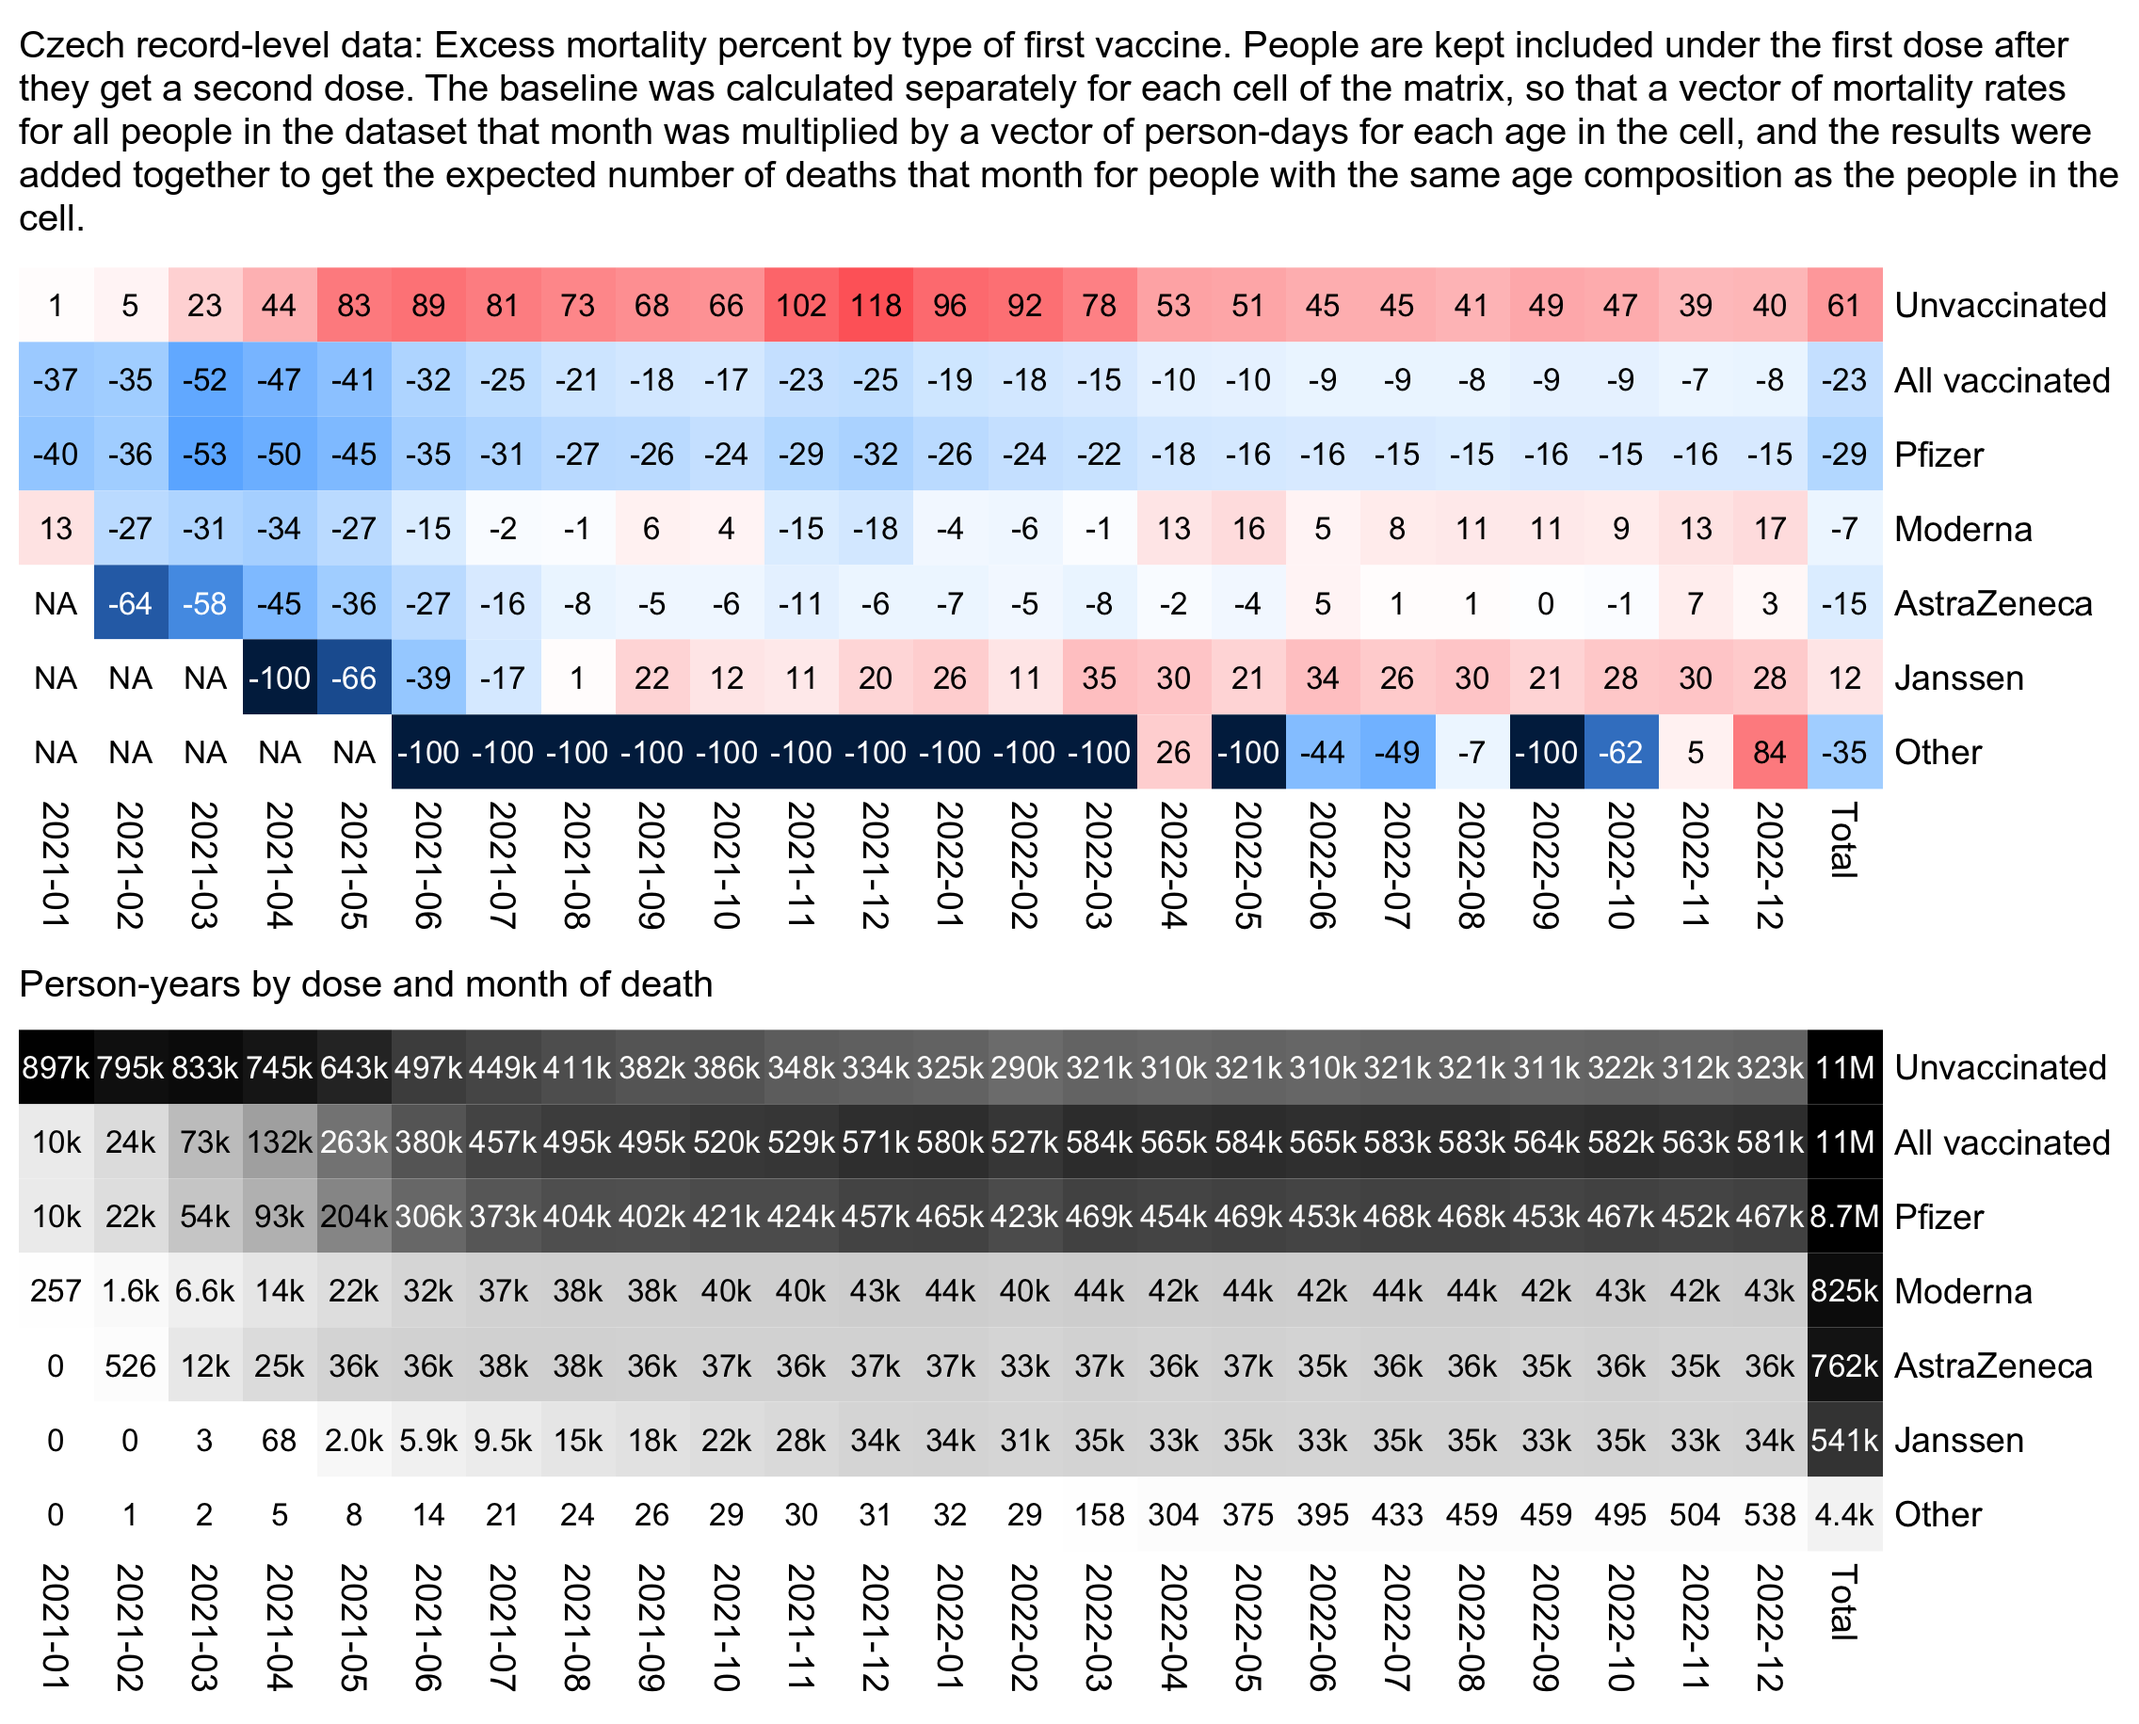
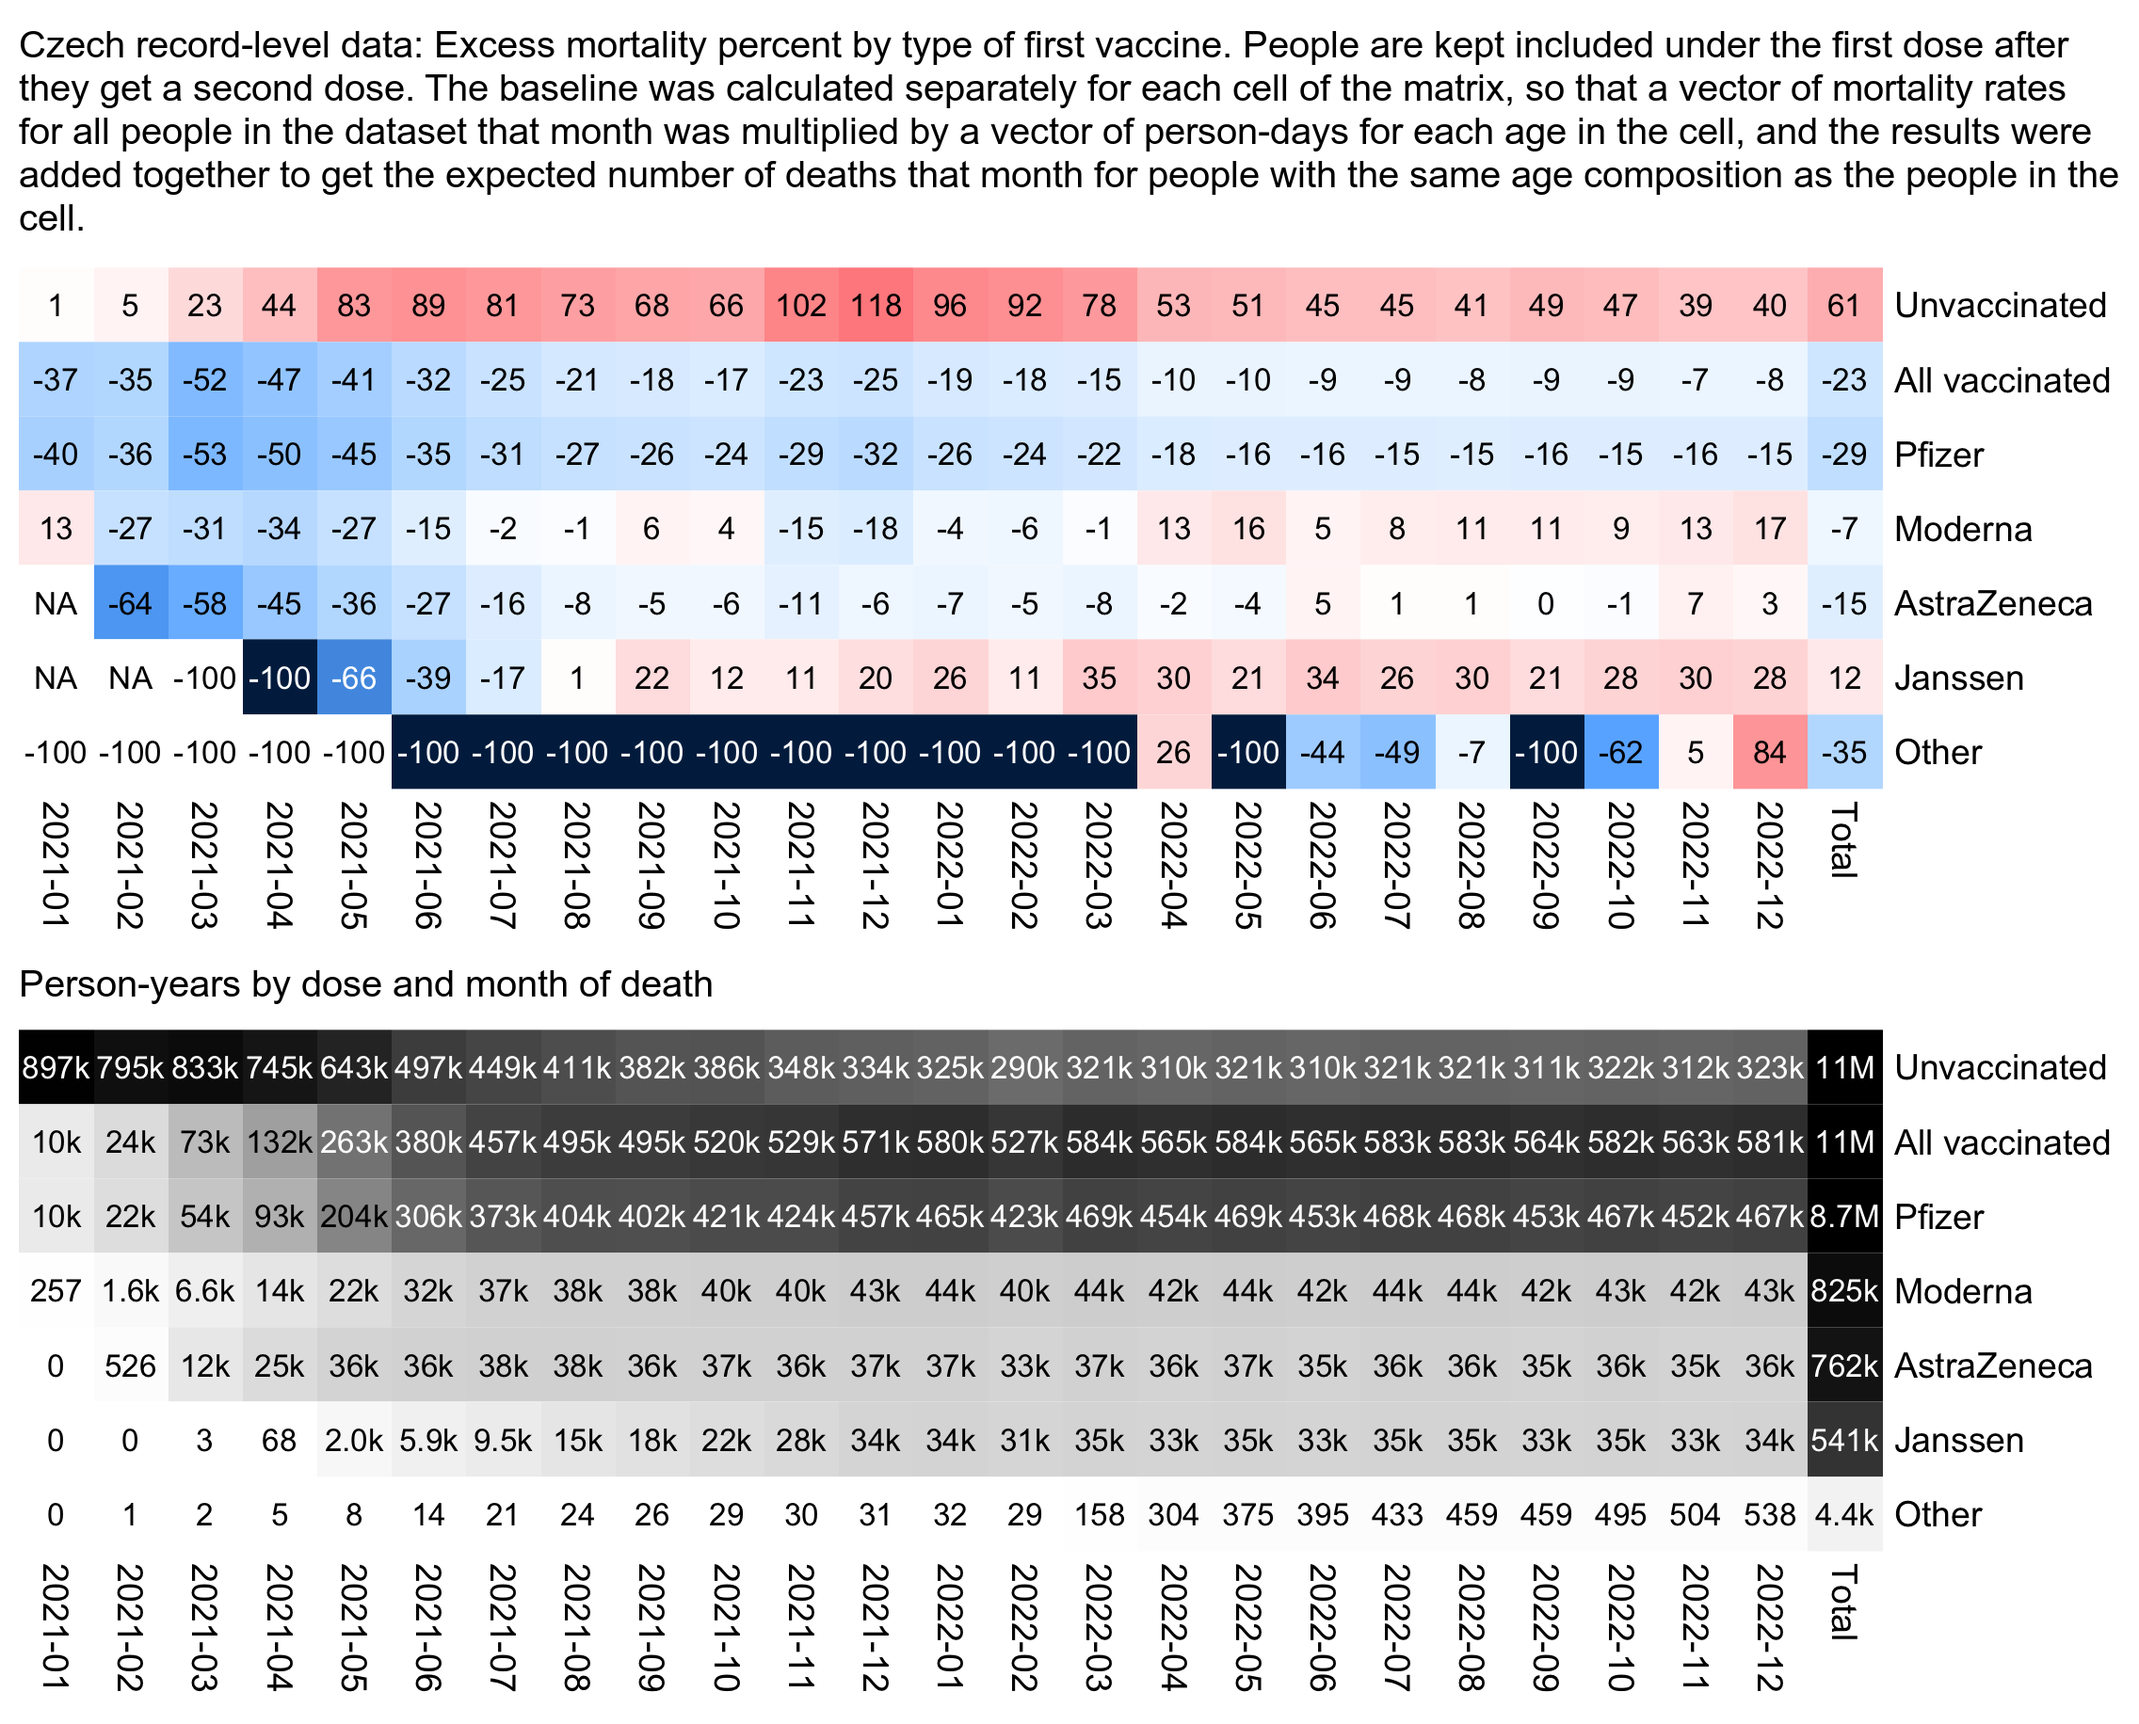
a

diff --git a/czech.html b/czech.html
@@ -489,9 +489,8 @@ m=tapply((a$dead-a$base)*100/ifelse(a$dead&gt;a$base,a$base,a$dead),a[,2:1],c)
 m[mpop&lt;10]=NA
 disp[is.na(m)]=&quot;NA&quot;
 disp[lower.tri(disp)&amp;row(disp)!=nrow(disp)]=&quot;&quot;
-exp=.85
-m=abs(m)^exp*sign(m)
-maxcolor=600^exp
+exp=.8;m=abs(m)^exp*sign(m)
+maxcolor=400^exp
 m[is.infinite(m)]=-maxcolor
 
 pal=HSV(c(210,210,210,210,0,0,0,0,0),c(.9,.75,.6,.3,0,.3,.6,.75,.9),c(.4,.65,1,1,1,1,1,.65,.4))
@@ -506,11 +505,8 @@ pheatmap::pheatmap(m,filename=&quot;mort.png&quot;,display_numbers=disp,
 kimi=\(x){e=floor(log10(ifelse(x==0,1,abs(x))));e2=pmax(e,0)%/%3+1
   x[]=ifelse(abs(x)&lt;10,round(x),paste0(round(x/1e3^(e2-1),ifelse(e%%3==0,1,0)),c(&quot;&quot;,&quot;k&quot;,&quot;M&quot;,&quot;B&quot;,&quot;T&quot;)[e2]));x}
 
-disp2=kimi(mpop)
-disp2[is.na(mpop)]=&quot;&quot;
-disp2[upper.tri(mpop)&amp;is.na(mpop)]=0
-exp2=.6
-mpop=mpop^exp2
+disp2=kimi(mpop);disp2[is.na(mpop)]=&quot;&quot;
+exp2=.6;mpop=mpop^exp2
 maxcolor2=max(mpop[1:(nrow(mpop)-1),1:(ncol(mpop)-1)],na.rm=T)
 
 pheatmap::pheatmap(mpop,filename=&quot;pop.png&quot;,display_numbers=disp2,
@@ -571,7 +567,7 @@ fwrite(buck,&quot;czbucketsfirstdosetype&quot;)</pre>
 <p>Code for the first plot:</p>
 <pre>library(data.table);library(colorspace)
 
-buck=fread(&quot;http://sars2.net/f/czbucketsfirstdosetype.gz&quot;)[month&gt;=&quot;2021-01&quot;]
+buck=fread(&quot;s/f/czbucketsfirstdosetype.gz&quot;)[month&gt;=&quot;2021-01&quot;]
 buck=buck[,.(alive=sum(alive),dead=sum(dead)),by=.(month,age,type)]
 buck=rbind(buck,cbind(aggregate(buck[,4:5],buck[,2:3],sum),month=&quot;Total&quot;))
 
@@ -586,14 +582,12 @@ a$type=factor(a$type,names(sort(tapply(a$alive,a$type,sum),T))[c(2,1,3:7)])
 excess=100*(a$dead/a$base-1)
 ratio=with(a,(dead-base)/ifelse(dead&gt;=base,base,dead)*100)
 
-mpop=tapply(a$alive,a[,2:1],sum)/365
+mpop=xtabs(alive~type+month,a)/365
 m=tapply(ratio,a[,2:1],c)
+m[mpop&lt;10]=NA
 disp=round(tapply(excess,a[,2:1],c))
-hide=!is.na(mpop)&amp;mpop&lt;10;m[hide]=disp[hide]=NA
-exp=.85;m=abs(m)^exp*sign(m)
-maxcolor=max(m,na.rm=T)*.8
-maxcolor=272^exp
-m[is.infinite(m)]=-maxcolor
+exp=.8;m=abs(m)^exp*sign(m)
+maxcolor=400^exp;m[is.infinite(m)]=-maxcolor
 
 pheatmap::pheatmap(m,filename=&quot;i1.png&quot;,display_numbers=disp,
   cluster_rows=F,cluster_cols=F,legend=F,cellwidth=19,cellheight=19,fontsize=9,fontsize_number=8,
@@ -603,7 +597,6 @@ pheatmap::pheatmap(m,filename=&quot;i1.png&quot;,display_numbers=disp,
   colorRampPalette(hex(HSV(c(rep(210,4),rep(0,5)),c(1,.8,.6,.3,0,.3,.6,.8,1),c(.3,.65,rep(1,5),.65,.3))))(256))
 
 exp2=.6;mpop2=mpop^exp2
-mpop2[is.na(mpop2)]=0
 maxcolor2=max(mpop2[-nrow(m),-ncol(m)])
 
 kimi=\(x){e=floor(log10(ifelse(x==0,1,abs(x))));e2=pmax(e,0)%/%3+1;x[]=ifelse(abs(x)&lt;1e3,round(x),paste0(sprintf(paste0(&quot;%.&quot;,ifelse(e%%3==0,1,0),&quot;f&quot;),x/1e3^(e2-1)),c(&quot;&quot;,&quot;k&quot;,&quot;M&quot;,&quot;B&quot;,&quot;T&quot;)[e2]));x}
@@ -636,7 +629,7 @@ disp=tapply((a$dead/a$base-1)*100,a[,2:1],round)
 m=tapply((a$dead-a$base)*100/ifelse(a$dead&gt;a$base,a$base,a$dead),a[,2:1],c)
 
 m[mpop&lt;100]=disp[mpop&lt;100]=NA
-exp=.85;m=abs(m)^exp*sign(m)
+exp=.8;m=abs(m)^exp*sign(m)
 maxcolor=400^exp;m[is.infinite(m)]=-maxcolor
 
 pal=HSV(c(210,210,210,210,0,0,0,0,0),c(.9,.75,.6,.3,0,.3,.6,.75,.9),c(.4,.65,1,1,1,1,1,.65,.4))
